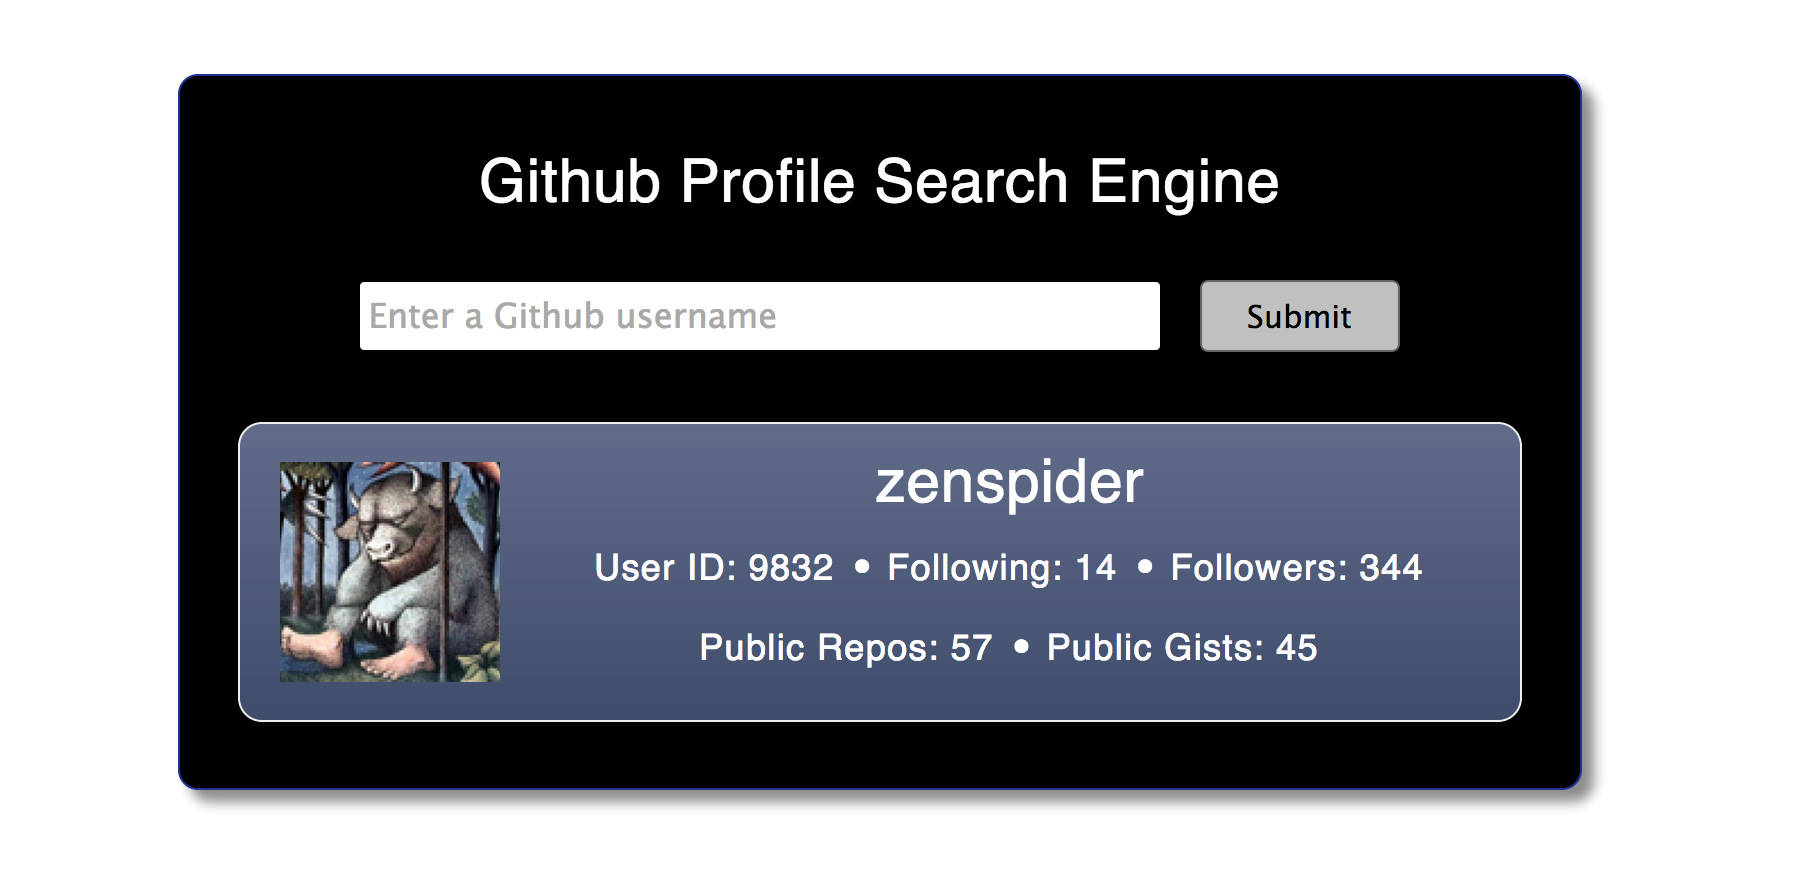
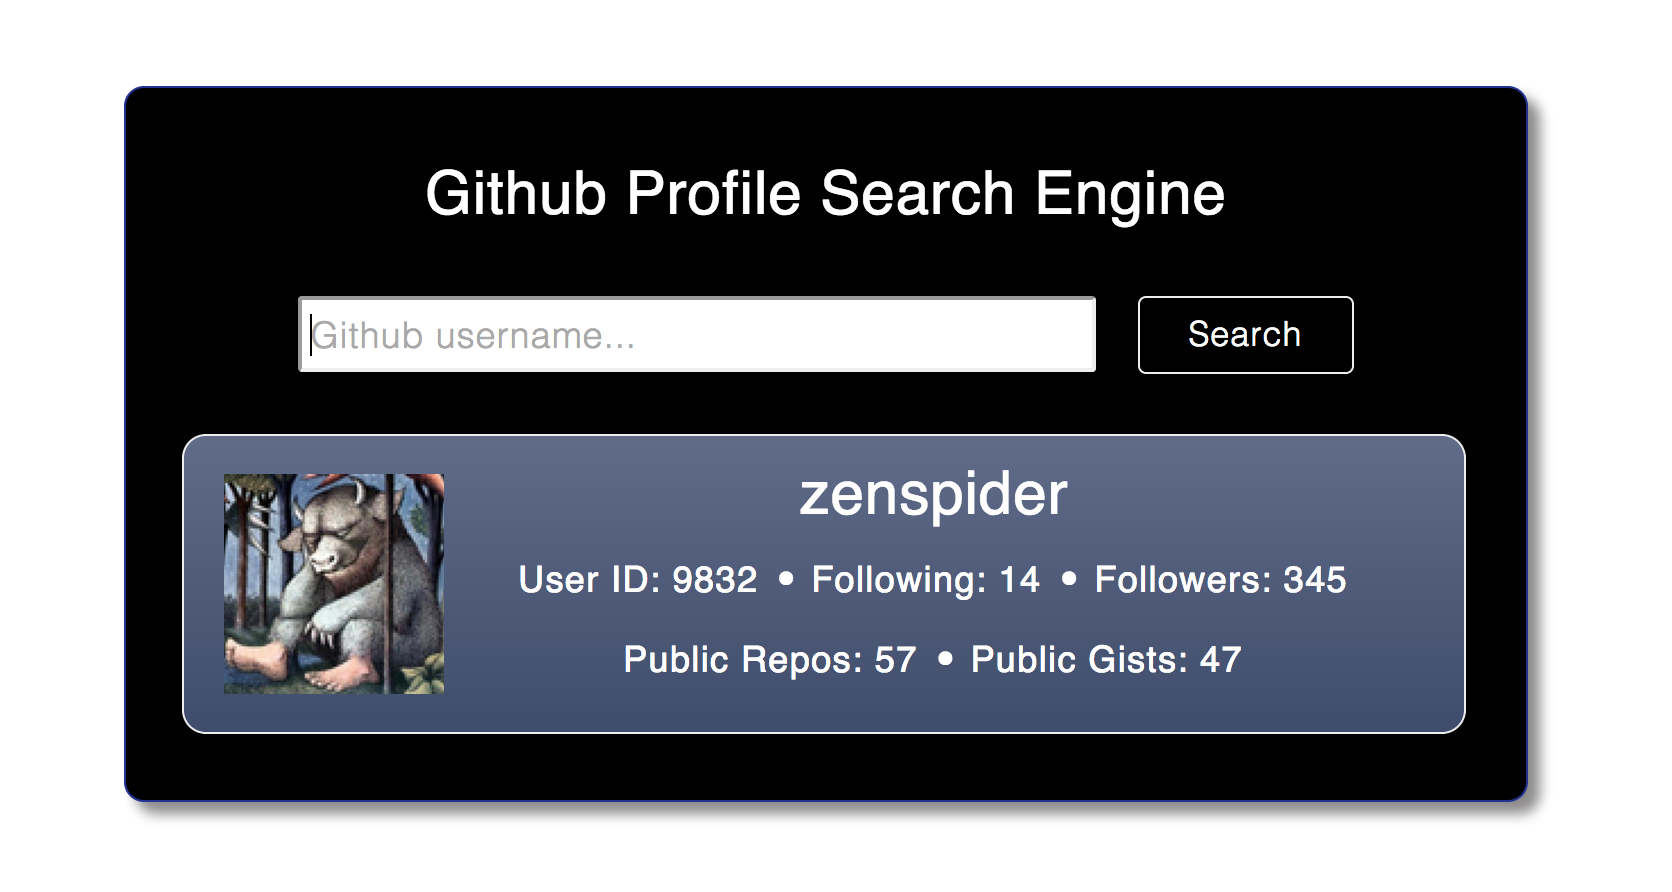
updated README file

diff --git a/README.md b/README.md
@@ -29,6 +29,10 @@ and [Mustache](http://mustache.github.io/) functionality, as well as working wit
 [API](http://en.wikipedia.org/wiki/Application_programming_interface)s 
 ([Github](http://github.com) in this case).
 
+__Update (10.9.2014):__ Re-wrote the entire app with [Angular](https://angularjs.org/) 
+instead of [Mustache](http://mustache.github.io/) changed a bit of styling, and added 
+a custom [jQuery UI Toolitp](http://jqueryui.com/tooltip/).
+
 
 ##Functional Description
 
